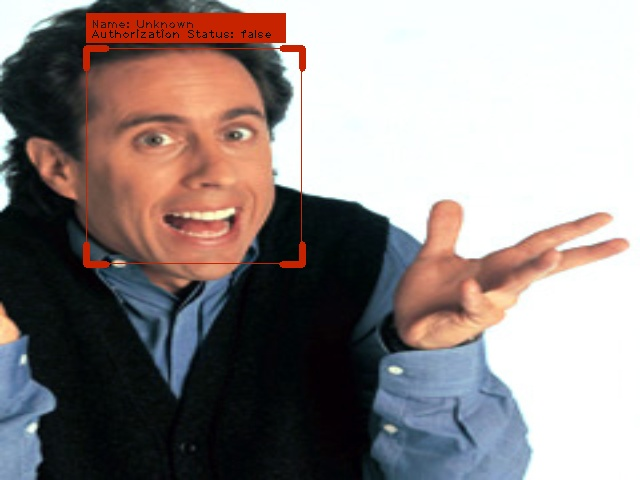
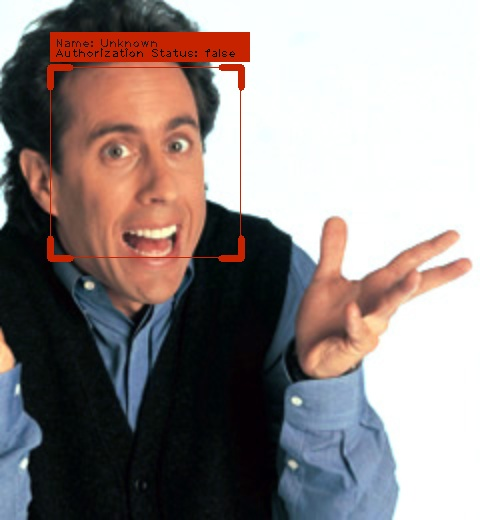
Fix image resizing to maintain aspect ratio

Changed region(s): [[0.0938, 0.0, 0.5312, 0.5625], [0.0938, 0.4062, 0.3125, 0.5625]]

diff --git a/app/security_system.py b/app/security_system.py
@@ -72,8 +72,11 @@ class SecuritySystem:
         return label_to_name
 
     def recognize_face(self, frame):
+        #Resizing image to maintain a standard size
+        height,width,channels = frame.shape
+        ratio = (int)(640/width)
+        frame = cv2.resize(frame,(ratio*width,ratio*height))
         # Convert the frame to grayscale for face detection
-        frame = cv2.resize(frame,(640,480))
         gray_frame = cv2.cvtColor(frame, cv2.COLOR_BGR2GRAY)
 
         # Load the custom Haar Cascade classifier for face detection
